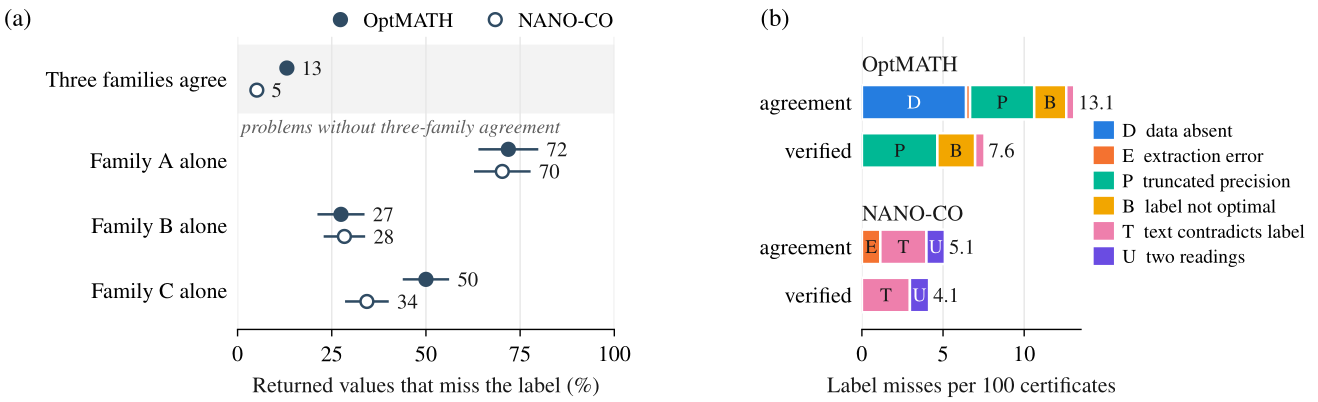
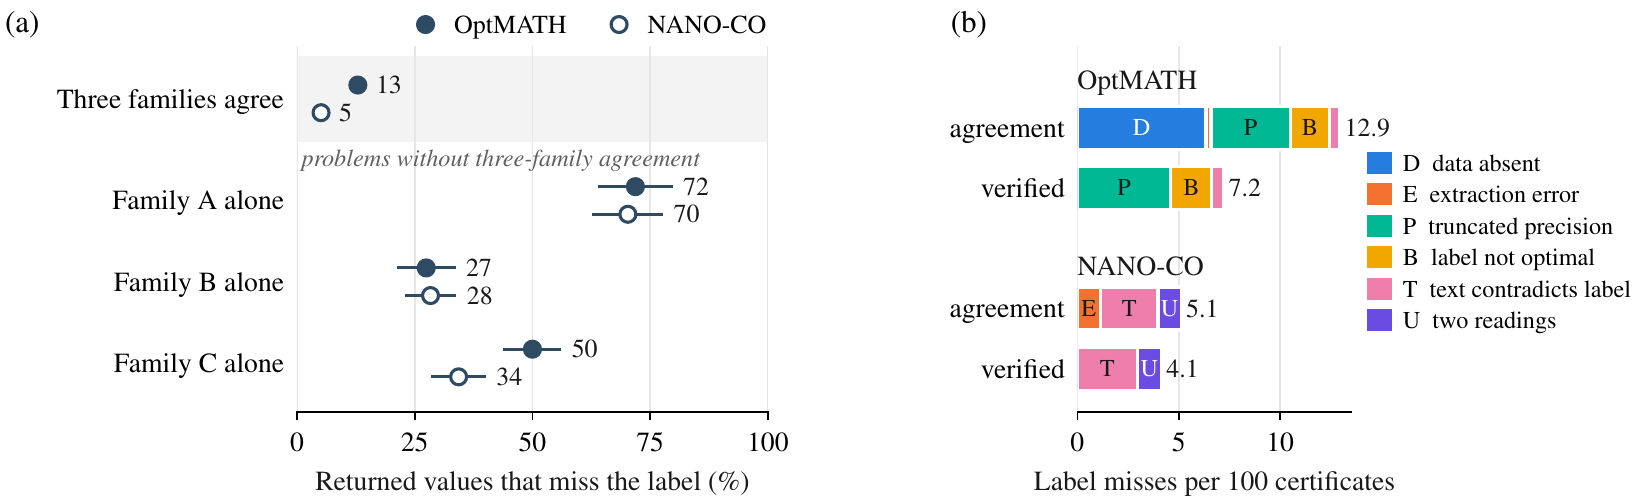
Update README, figures, and changelog for v2.1.0

diff --git a/scripts/make_figures.py b/scripts/make_figures.py
@@ -88,7 +88,7 @@ def main():
             row.append((sum(val(k, "single_" + f, "label_misses") - val(k, "panel_base_3of3", "label_misses") for k in ks),
                         sum(val(k, "single_" + f, "certificates") - val(k, "panel_base_3of3", "certificates") for k in ks)))
         A[g] = row
-    expect = {"OptMATH": [(53, 405), (23, 32), (14, 51), (33, 66)],
+    expect = {"OptMATH": [(53, 410), (23, 32), (14, 51), (33, 66)],
               "NANO-CO": [(9, 176), (26, 37), (19, 67), (23, 67)]}
     if A != expect:
         fail(f"panel (a) counts differ from the paper: {A}")
@@ -104,8 +104,8 @@ def main():
     for g, ks in grp.items():
         for stage, lab in (("panel_base_3of3", "agreement"), ("after check (B or C)", "verified")):
             B.append((g, lab, certs(ks, stage), {c: n for c, n in classes(ks, stage).items() if n}))
-    expectB = [("OptMATH", "agreement", 405, {"D": 26, "E": 1, "P": 16, "B": 8, "T": 2}),
-               ("OptMATH", "verified", 344, {"P": 16, "B": 8, "T": 2}),
+    expectB = [("OptMATH", "agreement", 410, {"D": 26, "E": 1, "P": 16, "B": 8, "T": 2}),
+               ("OptMATH", "verified", 347, {"P": 16, "B": 7, "T": 2}),
                ("NANO-CO", "agreement", 176, {"E": 2, "T": 5, "U": 2}),
                ("NANO-CO", "verified", 169, {"T": 5, "U": 2})]
     if B != expectB:
@@ -193,13 +193,14 @@ def fig2(t1, t2, out):
         n = int(before["certificates"])
         data_err = sum(int(before["class_" + c]) - int(after["class_" + c]) for c in "DEM")
         withdrawn = n - int(after["certificates"])
-        matched_withdrawn = withdrawn - (int(before["label_misses"]) - int(after["label_misses"]))
         correct = CORRECT_FLAGS[k]
-        over = matched_withdrawn - correct
+        # every withdrawn certificate without a data error and without a correct flag is an over-flag,
+        # including a withdrawn benchmark defect (conf_144925 on OptMATH-200)
+        over = withdrawn - data_err - correct
         defect = int(after["label_misses"])
         kept_match = n - withdrawn - defect
         data.append((name, n, (kept_match, defect, data_err, correct, over)))
-    expect = [("OptMATH-295", 242, (187, 14, 21, 2, 18)), ("OptMATH-200", 163, (131, 12, 6, 4, 10)),
+    expect = [("OptMATH-295", 243, (187, 14, 21, 2, 19)), ("OptMATH-200", 167, (135, 11, 6, 4, 11)),
               ("NANO-CO-150", 106, (99, 2, 1, 4, 0)), ("NANO-CO-95", 70, (63, 5, 1, 0, 1))]
     if data != expect:
         fail(f"figure 2 counts differ from the paper: {data}")

diff --git a/README.md b/README.md
@@ -7,11 +7,11 @@
 **Junbo Jacob Lian** &nbsp;·&nbsp; **Huiling Chen** &nbsp;·&nbsp; **Hanzhang Qin** &nbsp;·&nbsp; **Chung-Piaw Teo**
 
 [![arXiv](https://img.shields.io/badge/arXiv-2608.15565-b31b1b.svg)](https://arxiv.org/abs/2608.15565)
-[![Release](https://img.shields.io/badge/release-v2.0.0-2ea44f.svg)](https://github.com/junbolian/AdmitOR/releases/tag/v2.0.0)
+[![Release](https://img.shields.io/badge/release-v2.1.0-2ea44f.svg)](https://github.com/junbolian/AdmitOR/releases/tag/v2.1.0)
 [![License: MIT](https://img.shields.io/badge/License-MIT-yellow.svg)](https://opensource.org/licenses/MIT)
 [![Python 3.8+](https://img.shields.io/badge/python-3.8+-blue.svg)](https://www.python.org/downloads/)
 
-[**Paper**](https://arxiv.org/abs/2608.15565) &nbsp;·&nbsp; [**Run records**](artifacts/v2/README.md) &nbsp;·&nbsp; [**Audit**](artifacts/v2/audit/AUDIT.md)
+[**Paper**](https://arxiv.org/abs/2608.15565) &nbsp;·&nbsp; [**Run records**](artifacts/v2/README.md) &nbsp;·&nbsp; [**Audit**](artifacts/v2/audit/AUDIT.md) &nbsp;·&nbsp; [**Audit, human-written texts**](artifacts/v2/audit/AUDIT_human_texts.md)
 
 </div>
 
@@ -44,12 +44,17 @@ three-family certificates by source, before and after data verification.
   the odds of a modeling error that all agreeing programs share. Adding model families lowers the
   second term geometrically and leaves the first in place. Agreement on resampled instances removes
   no data error, and additional programs from the same families raise the odds of a shared error.
-- **Audit.** On 740 problems, three-family agreement issues 581 certificates, and 62 of them miss the
-  benchmark label. Every miss was checked against the problem text. None is a shared modeling error.
-  In 29, the programs agree on extracted data that the text does not support. The other 33 are
-  defects of the benchmark texts and labels.
+- **Audit.** On 740 problems with generated texts, three-family agreement issues 586 certificates,
+  and 62 of them miss the benchmark label. Every miss was checked against the problem text. None is a
+  shared modeling error. In 29, the programs agree on extracted data that the text does not support.
+  The other 33 are defects of the benchmark texts and labels.
 - **Data verification.** A check of the extracted data by the two other families withdraws all 29,
   including all six on 200 problems that were drawn after the rule had been set.
+- **Human-written texts.** On IndustryOR and Mamo ComplexLP, three-family agreement reaches a label
+  precision of 0.55 on the published releases and 0.95 on the releases with corrected texts and
+  answers. The three families share a modeling error only where a text leaves a decision open: on 26
+  diet problems that do not say whether portions are integral, all three use continuous quantities,
+  and once the corrected texts state integrality, all 26 certificates match the answer.
 - **Benchmark defects.** At least 65 of 495 sampled OptMATH-Train problems and 21 of the 245 NANO-CO
   problems carry a label that their text does not determine.
 
@@ -59,20 +64,37 @@ Coverage / label precision ± binomial standard error.
 
 | Rule | OptMATH-295 | OptMATH-200 | NANO-CO-150 | NANO-CO-95 |
 |---|---|---|---|---|
-| Family A alone | 0.895 / 0.807 ± 0.024 | 0.865 / 0.856 ± 0.027 | 0.887 / 0.820 ± 0.033 | 0.842 / 0.863 ± 0.038 |
-| Family B alone | 0.919 / 0.838 ± 0.022 | 0.925 / 0.876 ± 0.024 | 0.993 / 0.893 ± 0.025 | 0.990 / 0.872 ± 0.034 |
-| Family C alone | 0.963 / 0.796 ± 0.024 | 0.935 / 0.850 ± 0.026 | 0.993 / 0.886 ± 0.026 | 0.990 / 0.840 ± 0.038 |
-| Two families agree | 0.922 / 0.835 ± 0.022 | 0.900 / 0.883 ± 0.024 | 0.980 / 0.898 ± 0.025 | 0.979 / 0.871 ± 0.035 |
-| Three families agree | 0.820 / 0.855 ± 0.023 | 0.815 / 0.890 ± 0.025 | 0.707 / 0.972 ± 0.016 | 0.737 / 0.914 ± 0.034 |
-| Three families, resampled | 0.756 / 0.866 ± 0.023 | 0.775 / 0.897 ± 0.024 | 0.633 / 0.990 ± 0.011 | 0.621 / 0.915 ± 0.036 |
-| Two families, verified | 0.756 / 0.915 ± 0.019 | 0.765 / 0.922 ± 0.022 | 0.907 / 0.919 ± 0.023 | 0.937 / 0.876 ± 0.035 |
-| Three families, verified | 0.681 / 0.930 ± 0.018 | 0.715 / 0.916 ± 0.023 | 0.673 / 0.980 ± 0.014 | 0.716 / 0.926 ± 0.032 |
+| Family A alone | 0.898 / 0.807 ± 0.024 | 0.885 / 0.859 ± 0.026 | 0.887 / 0.820 ± 0.033 | 0.842 / 0.863 ± 0.038 |
+| Family B alone | 0.922 / 0.838 ± 0.022 | 0.945 / 0.878 ± 0.024 | 0.993 / 0.893 ± 0.025 | 0.990 / 0.872 ± 0.034 |
+| Family C alone | 0.966 / 0.796 ± 0.024 | 0.955 / 0.853 ± 0.026 | 0.993 / 0.886 ± 0.026 | 0.990 / 0.840 ± 0.038 |
+| Two families agree | 0.925 / 0.835 ± 0.022 | 0.920 / 0.886 ± 0.023 | 0.980 / 0.898 ± 0.025 | 0.979 / 0.871 ± 0.035 |
+| Three families agree | 0.824 / 0.856 ± 0.022 | 0.835 / 0.892 ± 0.024 | 0.707 / 0.972 ± 0.016 | 0.737 / 0.914 ± 0.034 |
+| Three families, resampled | 0.759 / 0.866 ± 0.023 | 0.790 / 0.899 ± 0.024 | 0.633 / 0.990 ± 0.011 | 0.621 / 0.915 ± 0.036 |
+| Two families, verified | 0.756 / 0.915 ± 0.019 | 0.780 / 0.929 ± 0.021 | 0.907 / 0.919 ± 0.023 | 0.937 / 0.876 ± 0.035 |
+| Three families, verified | 0.681 / 0.930 ± 0.018 | 0.730 / 0.925 ± 0.022 | 0.673 / 0.980 ± 0.014 | 0.716 / 0.926 ± 0.032 |
 
 Family A is DeepSeek-V4-Flash (it also extracts the data), family B is GPT-6.1 Sol, and family C is
 Claude Sonnet 5.5. Label precision understates the precision of the certifier here, because most
 remaining label misses are benchmark defects (see the [audit](artifacts/v2/audit/AUDIT.md)).
 
 ![Outcome of data verification per set](figures/fig2_verification_outcome.png)
+
+### Human-written texts
+
+IndustryOR and Mamo ComplexLP pooled: the published releases (311 problems, published labels) and the
+releases with corrected texts and answers of the OptiMind authors (309 problems). Coverage / label
+precision ± binomial standard error.
+
+| Rule | Published releases | Corrected releases |
+|---|---|---|
+| Family B alone | 0.929 / 0.540 ± 0.029 | 0.987 / 0.911 ± 0.016 |
+| Two families agree | 0.865 / 0.565 ± 0.030 | 0.942 / 0.914 ± 0.016 |
+| Three families agree | 0.656 / 0.554 ± 0.035 | 0.718 / 0.951 ± 0.015 |
+| Three families, resampled | 0.553 / 0.535 ± 0.038 | 0.615 / 0.942 ± 0.017 |
+| Three families, verified | 0.534 / 0.578 ± 0.038 | 0.625 / 0.959 ± 0.014 |
+
+Every three-family label miss on both releases is classified in
+[`AUDIT_human_texts.md`](artifacts/v2/audit/AUDIT_human_texts.md).
 
 ## Data
 
@@ -82,6 +104,10 @@ remaining label misses are benchmark defects (see the [audit](artifacts/v2/audit
 | OptMATH-200 | 200 | Uniform random sample with seed 42 from the 200,771 records outside the first sample, fixed before any model was run on it |
 | NANO-CO-150 | 150 | Part of NANO-CO whose labels fit the threshold of the resampling rule |
 | NANO-CO-95 | 95 | The remaining NANO-CO problems |
+| IndustryOR | 100 | Published release (`datasets/benchmark/industryor.jsonl`) |
+| Mamo ComplexLP | 211 | Published release (`datasets/benchmark/mamo_complex_test.jsonl`) |
+| IndustryOR, corrected | 99 | Release of the OptiMind authors, `microsoft/OptiGuide` at commit `3da334a` (`datasets/optimind_corrected/`) |
+| Mamo ComplexLP, corrected | 210 | Same source |
 
 ## Installation
 
@@ -120,9 +146,10 @@ AdmitOR/
 ├── admitor/          extraction, program generation, agreement
 ├── scripts/          certification, data verification, tables, figures, and earlier analyses
 ├── artifacts/v2/     run records of this version: per-problem extractions, programs,
-│                     values, verification replies, audit, tables, downstream results
+│                     values, verification replies, audit, tables, downstream results;
+│                     humanbench/ and optimind/ hold the runs on human-written texts
 ├── figures/          figures of the paper (PDF and PNG)
-├── datasets/         third-party benchmarks (see datasets/README.md)
+├── datasets/         third-party benchmarks and corrected releases (see datasets/README.md)
 ├── patches/          changes to the OptSkills host as unified diffs
 ├── tests/            offline tests
 ├── artifacts/e1, artifacts/e3, release/   records of the earlier version (tag v1.1.0)

diff --git a/artifacts/MANIFEST.md b/artifacts/MANIFEST.md
@@ -49,21 +49,26 @@ GitHub Release for tag `v1.0.0` and are verified against
[36 lines of base64/hex data omitted]
 
 ## Scrubbing
 

diff --git a/CHANGELOG.md b/CHANGELOG.md
@@ -1,5 +1,13 @@
 # Changelog
 
+## v2.1.0
+
+- Replies of the extraction and the data verification that cannot be parsed are requested again with identical settings, up to three attempts. The rule is applied to every set, and the records and tables are updated: 586 three-family certificates over the four sets (was 581), 516 after data verification (was 513).
+- Runs on human-written texts: IndustryOR and Mamo ComplexLP in their published releases (`artifacts/v2/humanbench/`) and in the releases with corrected texts and answers of the OptiMind authors (`artifacts/v2/optimind/`), with the audit of every three-family label miss (`artifacts/v2/audit/AUDIT_human_texts.md`).
+- Corrected releases added under `datasets/optimind_corrected/` with their MIT license.
+- Framework figure of the certifier in the README (`figures/fig0_framework.png`, script `scripts/make_framework_figure.py`).
+- Figures regenerated with the new counts.
+
 ## v2.0.0
 
 - All experiments rerun with DeepSeek-V4-Flash, GPT-6.1 Sol, and Claude Sonnet 5.5.
